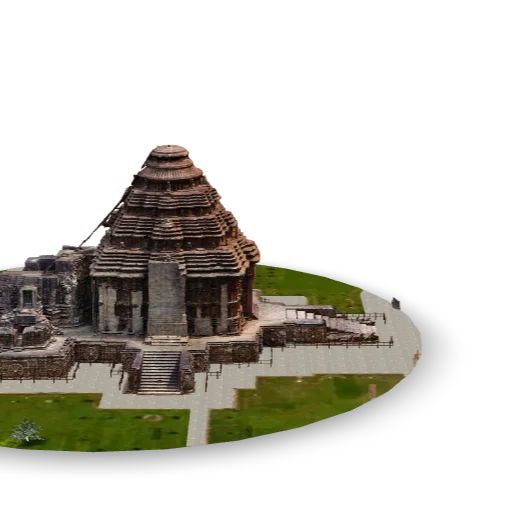
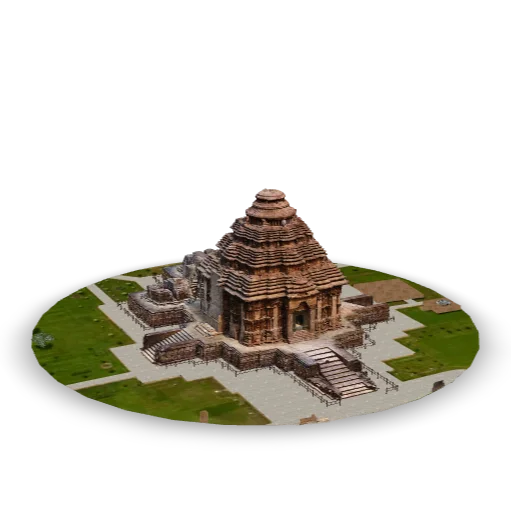
minor changes

diff --git a/index.html b/index.html
@@ -10,22 +10,25 @@
   <body>
     <!-- <model-viewer> HTML element -->
     <model-viewer
-      src="https://pub-71060078332047d1808d8e6cb2265240.r2.dev/konark_sphere_cutout.glb"
+      src="konark_sphere_cutout.glb"
       ar
       ar-modes="webxr scene-viewer quick-look"
       camera-controls
       tone-mapping="neutral"
       poster="poster.webp"
       shadow-intensity="1"
+      camera-orbit="62.37deg 72.63deg 3.097m"
+      field-of-view="30deg"
     >
-      <div class="progress-bar hide" slot="progress-bar">
+      <div class="progress-bar" slot="progress-bar">
         <div class="update-bar"></div>
       </div>
       <button slot="ar-button" id="ar-button">View in your space</button>
       <div id="ar-prompt">
-        <img src="ar_hand_prompt.png" />
+        <img src="https://modelviewer.dev/shared-assets/icons/hand.png" />
       </div>
     </model-viewer>
+
     <script src="script.js"></script>
     <!-- Loads <model-viewer> for browsers: -->
     <script
